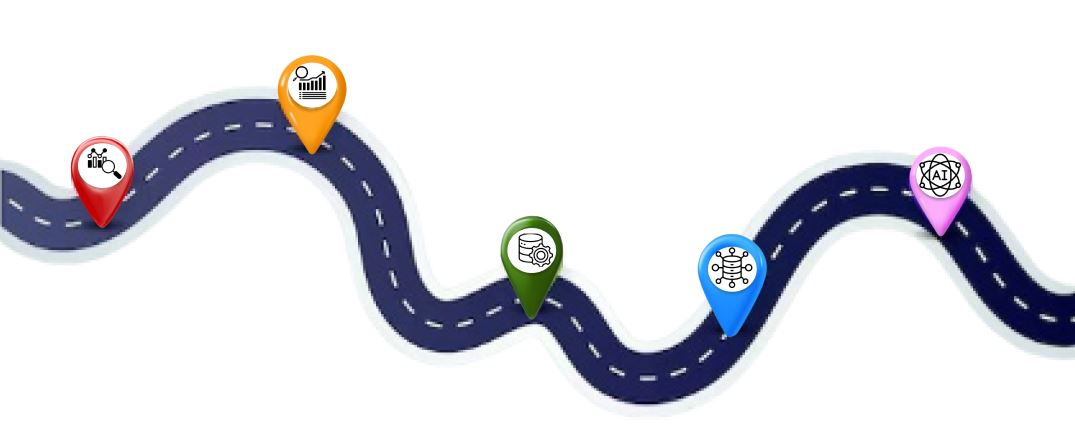
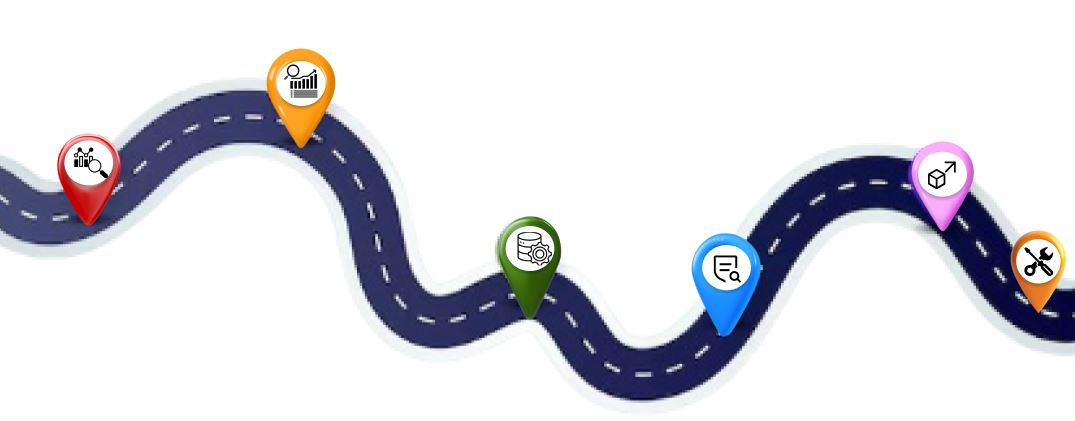
Home Page and Hire talent page updated

Changed region(s): [[0.0, 0.0926, 1.0, 0.9572], [0.9823, 0.8029, 1.0, 0.8337], [0.6447, 0.8955, 0.6753, 0.9264]]

diff --git a/src/app/work/page.js b/src/app/work/page.js
@@ -1,90 +1,78 @@
 import { Button } from "@/components/ui/button";
 import { Card, CardContent } from "@/components/ui/card";
+import Image from "next/image";
 
 export default function HowWeWork() {
-  const steps = [
-    {
-      number: "01",
-      title: "Requirement Gathering",
-      description:
-        " We begin our collaboration by gathering client requirements, listing, and compiling them. This allows us to build the process from the ground up, delivering results aligned with your goals. ",
-    },
-    {
-      number: "02",
-      title: "Plan & Resources",
-      description:
-        "After gathering requirements, we develop a strategic plan and allocate resources. As a leading IT company, we provide clients with a roadmap, setting the foundation for a successful project.",
-    },
-    {
-      number: "03",
-      title: "Design & Develop",
-      description:
-        "In the design and development phase, we turn strategic ideas into digital products that are visually appealing, technically robust, focusing on user experience and functionality.",
-    },
-    {
-      number: "04",
-      title: "Quality Assurance",
-      description:
-        "In this phase, we carefully test and validate all elements to ensure they function correctly and meet standards, delivering the desired user experience. Our team examines each aspect for reliability.",
-    },
-    {
-      number: "05",
-      title: "Deployment",
-      description:
-        "Once the product meets the required standards, we deploy it, releasing the product or updates to the servers. This ensures seamless and efficient delivery. ",
-    },
-    {
-      number: "06",
-      title: "Support & Maintenance",
-      description:
-        "In the final stage, we maintain systems to ensure smooth operation, security, and reliability. Ongoing optimization enhances performance, with a focus on client satisfaction and operational excellence.",
-    },
-  ];
-
   return (
-    <div className="container mx-auto px-4 py-16 bg-white">
-      <div className="text-center mb-16">
-        <h2 className="text-3xl font-semibold text-gray-600 mb-2 flex items-center justify-center gap-4">
-          <span className="w-12 h-px bg-gray-400"></span>
-          How We Work
-          <span className="w-12 h-px bg-gray-400"></span>
-        </h2>
-        <h3 className="text-3xl md:text-5xl font-bold mb-8 text-gray-800">
-          Enjoy seamless service through our simple,{" "}
-          <span className="text-blue-600  px-2 py-1 rounded">
-            streamlined process:
-          </span>
-        </h3>
-        <div className="flex items-center justify-center gap-2 text-lg">
-          <p className="text-gray-600">
-            An efficient workflow, from requirements gathering to ongoing
-            support and maintenance.
-          </p>
-          <Button
-            variant="link"
-            className="text-blue-500 px-2 py-1 rounded hover:bg-blue-600"
-          >
-            See All
-          </Button>
+    <>
+      <div className="container mx-auto px-4 py-16 bg-white">
+        <div className="text-center mb-16">
+          <h2 className="text-3xl font-semibold text-gray-600 mb-2 flex items-center justify-center gap-4">
+            <span className="w-12 h-px bg-gray-400"></span>
+            How We Work
+            <span className="w-12 h-px bg-gray-400"></span>
+          </h2>
+          <h3 className="text-3xl md:text-5xl font-bold mb-8 text-gray-800">
+            Enjoy seamless service through our simple,{" "}
+            <span className="text-blue-600  px-2 py-1 rounded">
+              streamlined process:
+            </span>
+          </h3>
+          <div className="flex items-center justify-center gap-2 text-lg">
+            <p className="text-gray-600">
+              An efficient workflow, from requirements gathering to ongoing
+              support and maintenance.
+            </p>
+            <Button
+              variant="link"
+              className="text-blue-500 px-2 py-1 rounded hover:bg-blue-600"
+            >
+              See All
+            </Button>
+          </div>
         </div>
       </div>
-
-      <div className="grid gap-8">
-        {steps.map((step) => (
-          <Card
-            key={step.number}
-            className="border border-gray-200 shadow-sm hover:shadow-md transition-shadow "
-          >
-            <CardContent className="p-6 grid md:grid-cols-[200px_300px_1fr] gap-6 items-center hover:bg-blue-50">
-              <div className="text-6xl font-bold text-gray-500">
-                {step.number}
-              </div>
-              <h4 className="text-2xl font-bold">{step.title}</h4>
-              <p className="text-gray-600">{step.description}</p>
-            </CardContent>
-          </Card>
-        ))}
-      </div>
-    </div>
+      <section className="w-full h-max flex-col-reverse lg:flex-row">
+        <Image
+          src="/roadmap.JPG"
+          alt="Image"
+          width={500}
+          height={100}
+          className="h-full w-[100vw]"
+        />
+        <div className="w-full flex flex-col gap-x-5 gap-y-16 mt-10 lg:flex-row flex-wrap justify-between p-5 pt-10">
+          <div className="relative w-full lg:w-[calc(100%/3.2)] lg:h-[350px] py-20 px-10 bg-gradient-to-b from-[#FFFFFF] to-[#999999] rounded-[20px] text-center flex flex-col justify-center items-center lg:p-5">
+            <h3 className="text-[28px] font-bold text-[#3482A3] mb-4">Requirement Gathering</h3>
+            <p className="text-[20px] font-semibold">We begin our collaboration by gathering client requirements, listing, and compiling them. This allows us to build the process from the ground up, delivering results aligned with your goals.</p>
+            <p className="absolute top-[-30px] bg-red-500 px-6 py-3 text-white text-3xl font-bold rounded-[50%] ">1</p>
+          </div>
+          <div className="relative w-full lg:w-[calc(100%/3.2)] lg:h-[350px] py-20 px-10 bg-gradient-to-b from-[#FFFFFF] to-[#999999] rounded-[20px] text-center flex flex-col justify-center items-center lg:p-5">
+            <h3 className="text-[28px] font-bold text-[#3482A3] mb-4">Plan & Resources</h3>
+            <p className="text-[20px] font-semibold">After gathering requirements, we develop a strategic plan and allocate resources. As a leading IT company, we provide clients with a roadmap, setting the foundation for a successful project.</p>
+            <p className="absolute top-[-30px] bg-[#FEA31E] px-6 py-3 text-white text-3xl font-bold rounded-[50%] ">2</p>
+          </div>
+          <div className="relative w-full lg:w-[calc(100%/3.2)] lg:h-[350px] py-20 px-10 bg-gradient-to-b from-[#FFFFFF] to-[#999999] rounded-[20px] text-center flex flex-col justify-center items-center lg:p-5">
+            <h3 className="text-[28px] font-bold text-[#3482A3] mb-4">Design & Develop</h3>
+            <p className="text-[20px] font-semibold">In the design and development phase, we turn strategic ideas into digital products that are visually appealing, technically robust, focusing on user experience and functionality.</p>
+            <p className="absolute top-[-30px] bg-[#355F06] px-6 py-3 text-white text-3xl font-bold rounded-[50%] ">3</p>
+          </div>
+          <div className="relative w-full lg:w-[calc(100%/3.2)] lg:h-[350px] py-20 px-10 bg-gradient-to-b from-[#FFFFFF] to-[#999999] rounded-[20px] text-center flex flex-col justify-center items-center lg:p-5">
+            <h3 className="text-[28px] font-bold text-[#3482A3] mb-4">Quality Assurance</h3>
+            <p className="text-[20px] font-semibold">In this phase, we carefully test and validate all elements to ensure they function correctly and meet standards, delivering the desired user experience. Our team examines each aspect for reliability.</p>
+            <p className="absolute top-[-30px] bg-[#1C89FE] px-6 py-3 text-white text-3xl font-bold rounded-[50%] ">4</p>
+          </div>
+          <div className="relative w-full lg:w-[calc(100%/3.2)] lg:h-[350px] py-20 px-10 bg-gradient-to-b from-[#FFFFFF] to-[#999999] rounded-[20px] text-center flex flex-col justify-center items-center lg:p-5">
+            <h3 className="text-[28px] font-bold text-[#3482A3] mb-4">Deployment</h3>
+            <p className="text-[20px] font-semibold">Once the product meets the required standards, we deploy it, releasing the product or updates to the servers. This ensures seamless and efficient delivery.</p>
+            <p className="absolute top-[-30px] bg-[#E36FE5] px-6 py-3 text-white text-3xl font-bold rounded-[50%] ">5</p>
+          </div>
+          <div className="relative w-full lg:w-[calc(100%/3.2)] lg:h-[350px] py-20 px-10 bg-gradient-to-b from-[#FFFFFF] to-[#999999] rounded-[20px] text-center flex flex-col justify-center items-center lg:p-5">
+            <h3 className="text-[28px] font-bold text-[#3482A3] mb-4">Support & Maintenance</h3>
+            <p className="text-[20px] font-semibold">In the final stage, we maintain systems to ensure smooth operation, security, and reliability. Ongoing optimization enhances performance, with a focus on client satisfaction and operational excellence.</p>
+            <p className="absolute top-[-30px] bg-[#FF8031] px-6 py-3 text-white text-3xl font-bold rounded-[50%] ">6</p>
+          </div>
+        </div>
+      </section>
+    </>
   );
 }

diff --git a/src/app/hire-talent/page.js b/src/app/hire-talent/page.js
@@ -28,7 +28,7 @@ const HireTalentPage = () => {
                             <i className="fa-brands fa-hire-a-helper"></i>
                             <p>Hire now</p>
                         </div>
-                        <a href="#" className="py-[10px] cursor-pointer px-[20px] bg-gradient-to-r transition-transform hover:scale-105 from-[#033941] to-[#0892A7] text-white">Contact Us</a>
+                        <a href="#" className="py-[10px] cursor-pointer px-[20px] bg-gradient-to-r transition-transform hover:scale-105 from-[#275071] to-[#4A98D7] text-white">Contact Us</a>
                     </div>
                 </div>
                 <div className="hidden lg:block">
@@ -112,7 +112,7 @@ const HireTalentPage = () => {
                                 <input required type="text" placeholder="'Remote', City or ZIP" className="lg:text-[26px] lg:px-3 px-1 bg-none outline-none border-b-2 rounded-[10px] border-blue-500"></input>
                             </div>
                         </div>
-                        <button type="submit" className="w-max self-center rounded-[10px] py-[10px] cursor-pointer px-[20px] bg-gradient-to-r transition-transform hover:scale-105 from-[#033941] to-[#0892A7] text-white">Preview Candidates</button>
+                        <button type="submit" className="w-max self-center rounded-[10px] py-[10px] cursor-pointer px-[20px] bg-gradient-to-r transition-transform hover:scale-105 from-[#275071] to-[#4A98D7] text-white">Preview Candidates</button>
                     </form>
                 </div>
             </section>
@@ -167,7 +167,7 @@ const HireTalentPage = () => {
                     <h2 className="text-[40px] lg:text-[96px] font-bold">Hire talent that delivers</h2>
                     <p className="text-[18px] lg:text-[24px]">We guarantee every professional we place and offer a free replacement if you’re not satisfied.</p>
                     <button type="submit"
-                        className="w-max self-center rounded-[10px] py-[10px] cursor-pointer px-[20px] bg-gradient-to-r transition-transform hover:scale-105 from-[#033941] to-[#0892A7] text-white">Find Your next Hire</button>
+                        className="w-max self-center rounded-[10px] py-[10px] cursor-pointer px-[20px] bg-gradient-to-r transition-transform hover:scale-105 from-[#275071] to-[#4A98D7] text-white">Find Your next Hire</button>
                 </div>
             </section>
             <section className="w-full flex flex-col lg:p-10">
@@ -178,7 +178,7 @@ const HireTalentPage = () => {
                         <p className="text-[18px] md:text-[24px]">
                             Whether managing your workforce, tackling complex challenges, or transforming your business, KSVA's expertise integrates with our talent network to deliver flexible, tailored solutions.
                         </p>
-                        <button type="submit" className="w-max rounded-[10px] py-2 px-5 bg-gradient-to-r from-[#033941] to-[#0892A7] text-white transition-transform hover:scale-105">
+                        <button type="submit" className="w-max rounded-[10px] py-2 px-5 bg-gradient-to-r from-[#275071] to-[#4A98D7] text-white transition-transform hover:scale-105">
                             Learn More
                         </button>
                     </div>
@@ -223,7 +223,7 @@ const HireTalentPage = () => {
                     <h2 className="text-[40px] lg:text-[96px] font-bold">Hire the talent you need</h2>
                     <p className="text-[18px] lg:text-[24px]">Hire the talent you need to grow your business.Find skilled professionals who fit your vision.Build a strong team for lasting success!</p>
                     <button type="submit"
-                        className="w-max rounded-[10px] py-[10px] cursor-pointer px-[20px] bg-gradient-to-r transition-transform hover:scale-105 from-[#033941] to-[#0892A7] text-white">Contact Us
+                        className="w-max rounded-[10px] py-[10px] cursor-pointer px-[20px] bg-gradient-to-r transition-transform hover:scale-105 from-[#275071] to-[#4A98D7] text-white">Contact Us
                     </button>
                 </div>
             </section>
